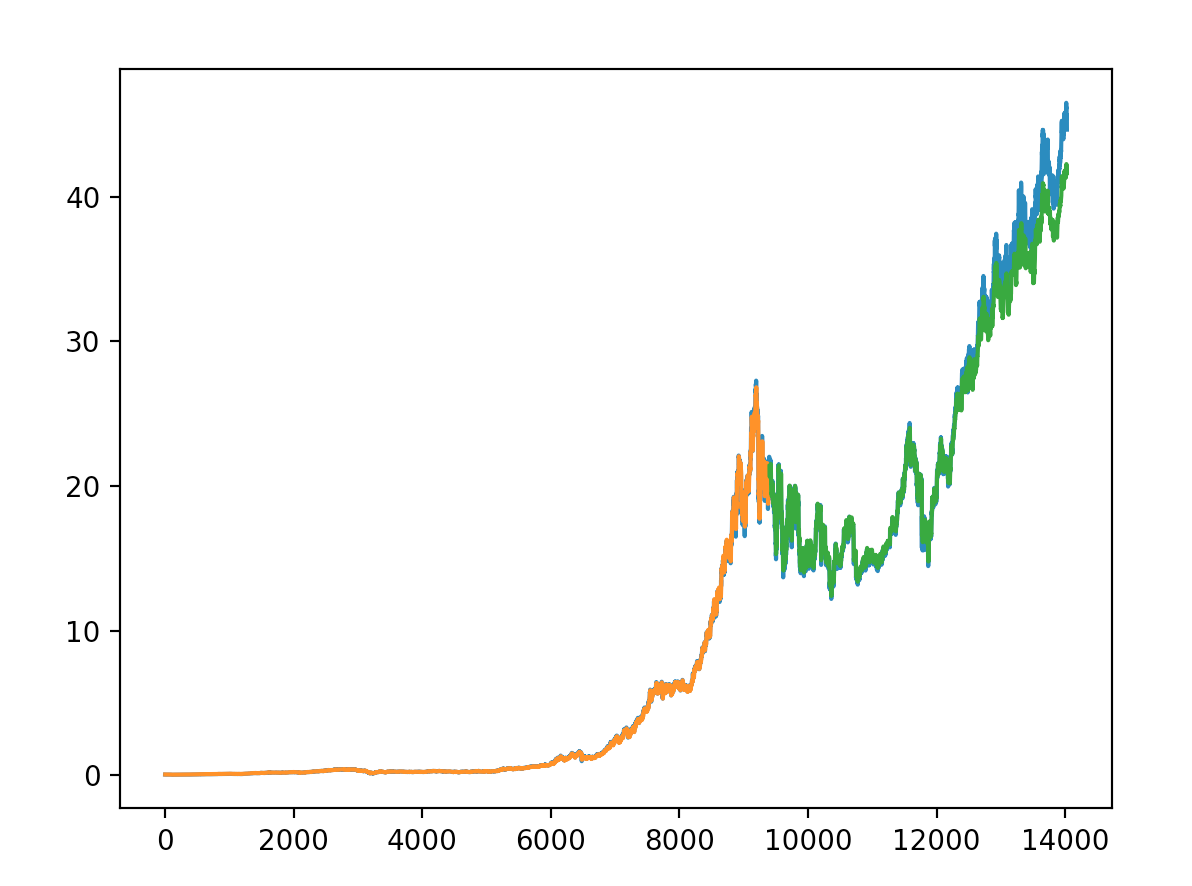
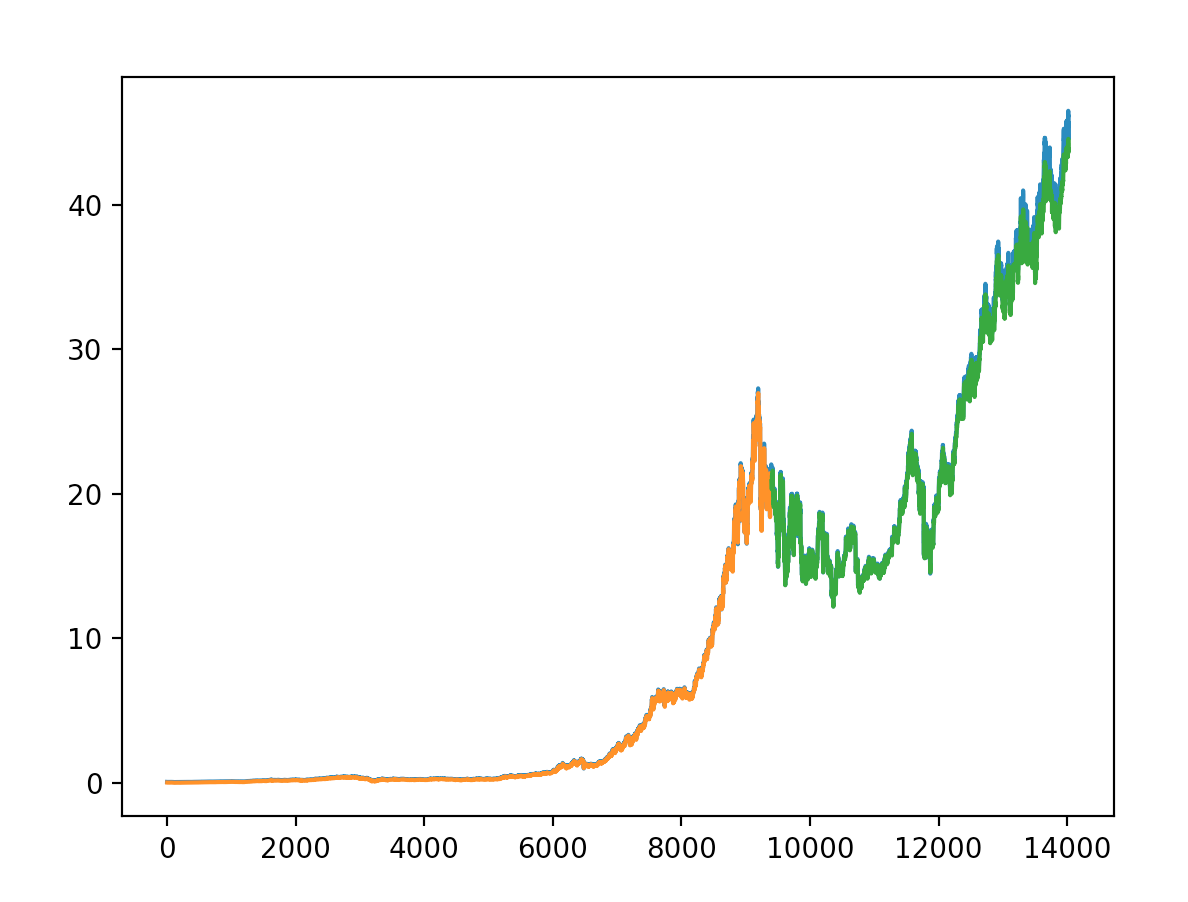
window added

Changed region(s): [[0.0623, 0.0609, 0.9343, 0.9752], [0.5918, 0.1219, 0.9032, 0.7314], [0.5295, 0.7314, 0.5918, 0.8228]]

diff --git a/LSTMs-stock-data/stocks-reg-window.py b/LSTMs-stock-data/stocks-reg-window.py
@@ -51,10 +51,14 @@ trainX = numpy.reshape(trainX, (trainX.shape[0], 1, trainX.shape[1])) #(9395, 1,
 testX = numpy.reshape(testX, (testX.shape[0], 1, testX.shape[1]))
 # create and fit the LSTM network
 model = Sequential()
-model.add(LSTM(4, input_shape=(1, look_back)))
+model.add(LSTM(400, input_shape=(1, look_back)))
 model.add(Dense(1))
 model.compile(loss='mean_squared_error', optimizer='adam')
-model.fit(trainX, trainY, epochs=100, batch_size=150, verbose=2)
+#model.fit(trainX, trainY, epochs=100, batch_size=150, verbose=2)
+repeats = 1
+for i in range(repeats):
+    print("Repeat #: %d" %i)
+    model.fit(trainX, trainY, epochs=100, batch_size=20, validation_data=(testX, testY), verbose=2)
 
 # make predictions
 trainPredict = model.predict(trainX)
@@ -93,6 +97,19 @@ print(predictions)
 
 persistence_rmse_normalized = math.sqrt(my_mean_squared_error(testY[0], predictions))
 print('Testing against persistence model (normalized): %f' % persistence_rmse_normalized)
+
+predictions2 = list()
+for i in range(len(trainY[0]) - 1):
+    # make prediction
+    predictions2.append(trainY[0][i + 1])
+    # observation
+    #history.append(trainY[0][i])
+predictions2.append(testY[0][1])
+
+persistence_rmse_normalized2 = math.sqrt(my_mean_squared_error(trainY[0], predictions2))
+print('Testing against persistence model for training (normalized): %f' % persistence_rmse_normalized2)
+persistence_rmse2 = math.sqrt(mean_squared_error(trainY[0], predictions2))
+print('Testing against persistence model for training (unnormalized): %f' % persistence_rmse2)
 
 
 # shift train predictions for plotting
